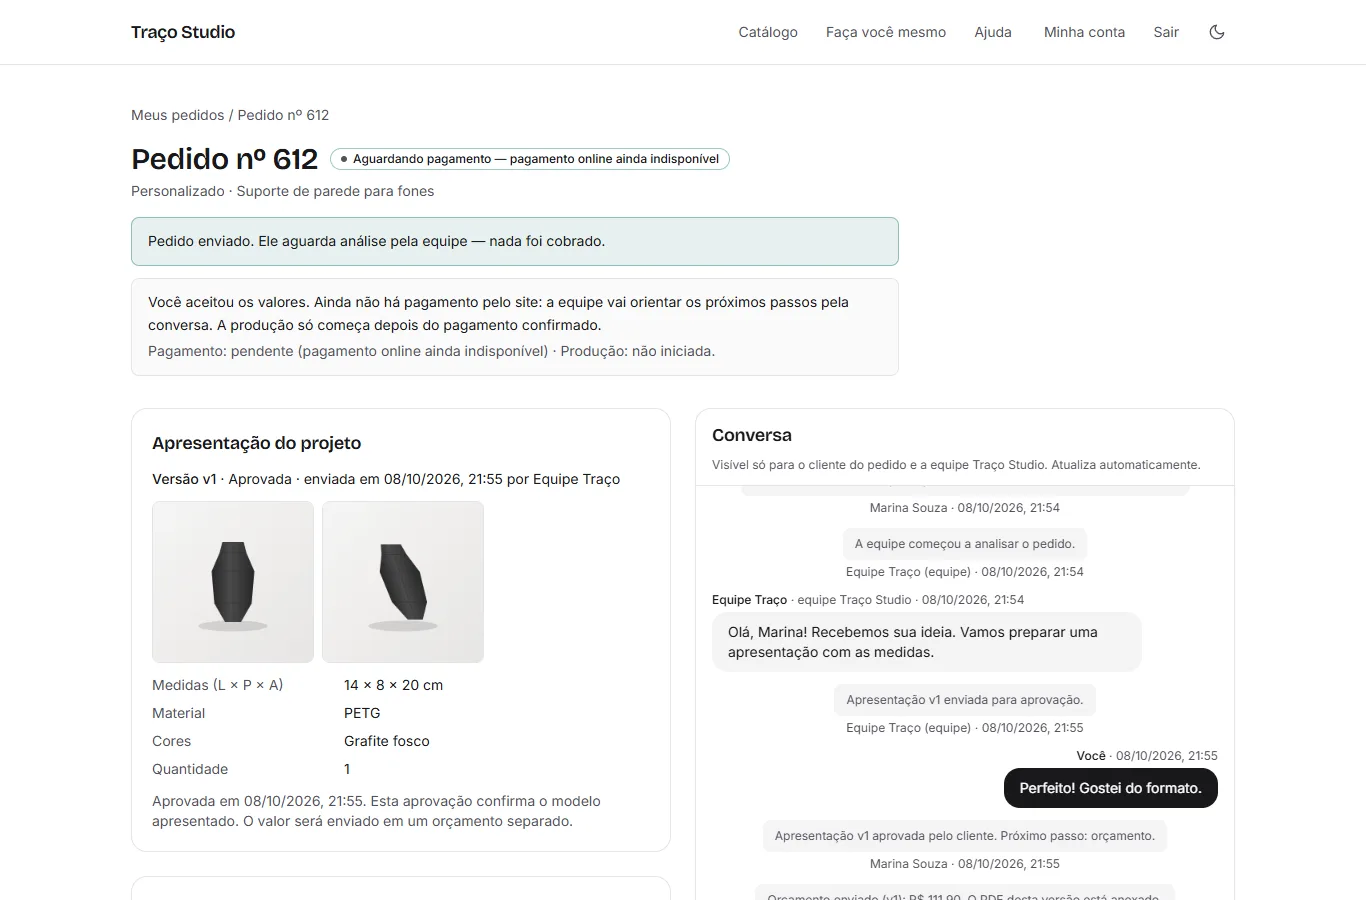
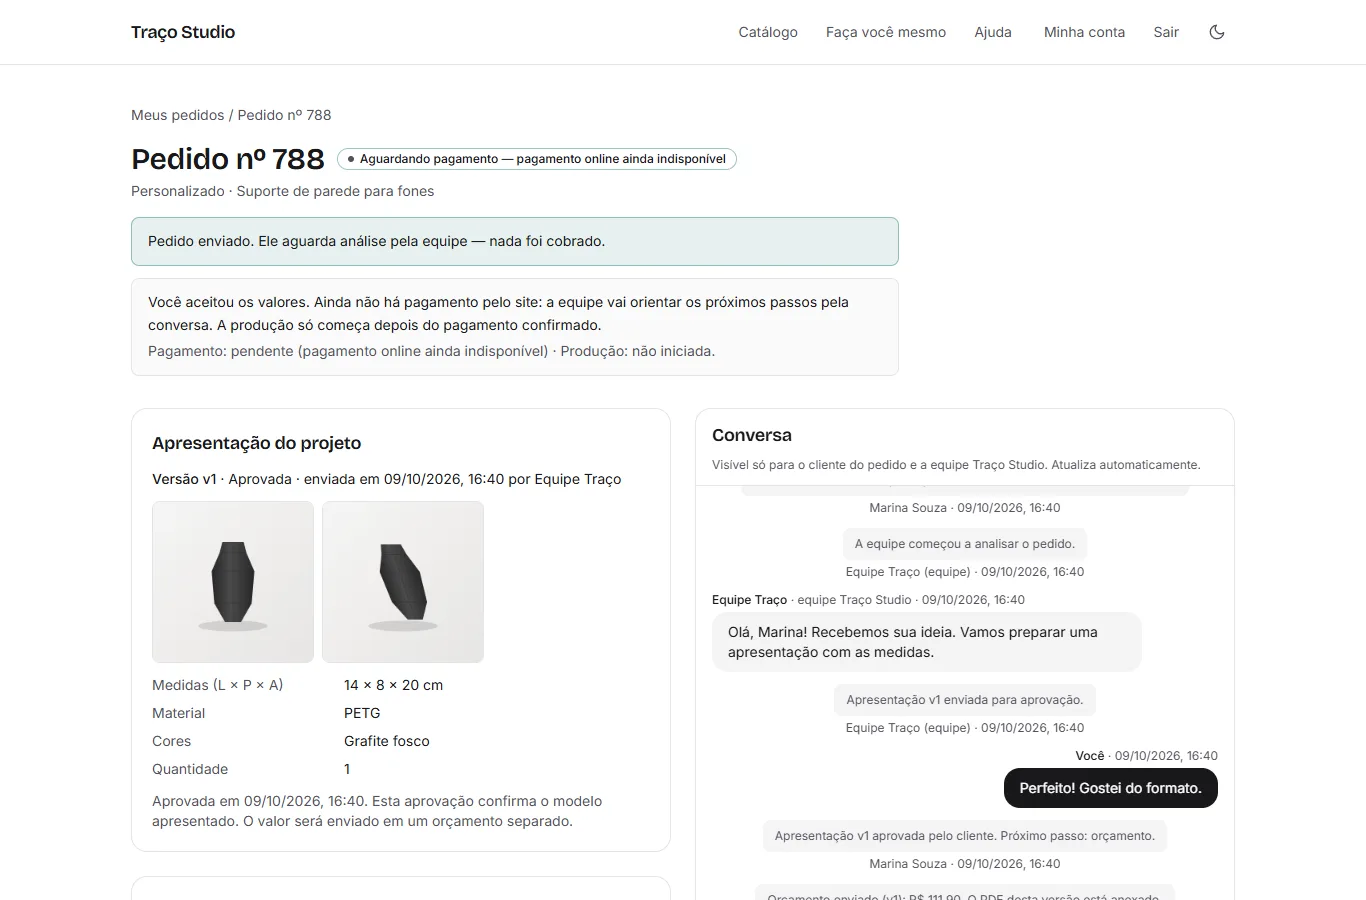
docs: proposta comercial, faixa de preço do parceiro e cupons configuráveis
- Parceiros convidados com proposta comercial versionada (PDF), preço-base calculado e faixa de preço
  escolhida pelo parceiro; publicação depende das condições aceitas e da autorização do proprietário.
- Cupons configuráveis (percentual, uso único ou boas-vindas, escopo, validade).
- Capturas refeitas com dados fictícios; removidas duas imagens desatualizadas da área de parceiros.
- Gateway, saques, repasses e publicação em produção seguem pendentes.

diff --git a/README.md b/README.md
@@ -4,8 +4,8 @@
 
 Traço Studio (nome em desenvolvimento) é a loja online de dois sócios que fabricam e vendem peças impressas em 3D.
 O site reúne em um só lugar o **catálogo de produtos prontos**, os **pedidos personalizados** — da ideia do cliente
-até a aprovação do projeto e o aceite do orçamento — e as **propostas de produtos enviadas por parceiros**, com
-conversa privada entre cada pessoa e a equipe.
+até a aprovação do projeto e o aceite do orçamento — e as **propostas de produtos enviadas por parceiros
+convidados**, com proposta comercial, faixa de preço e conversa privada entre cada pessoa e a equipe.
 
 ![Catálogo com filtros por categoria](docs/images/catalogo.webp)
 
@@ -64,11 +64,15 @@ e a equipe recalcula custos à mão. O objetivo do projeto é organizar esse pro
 |---|---|
 | ![Lista de pedidos da equipe com filtros](docs/images/inbox-equipe.webp) | <img src="docs/images/custos-reutilizaveis.webp" alt="Cadastro de impressora, materiais e parâmetros de custo versionados" width="520"> |
 
-### Parceiros que propõem produtos
+**Cupons configuráveis: percentual, modalidade (uso único ou boas-vindas), escopo e validade**
 
-| Área do parceiro: proposta enviada e simulação | Análise da proposta pela equipe |
+<img src="docs/images/cupons-configuraveis.webp" alt="Cadastro de cupom com percentual, modalidade, escopo e lista de cupons com uso" width="620">
+
+### Parceiros convidados e proposta comercial
+
+| Condições comerciais (equipe) — valores de exemplo | Calculadora do parceiro: escolha do preço na faixa |
 |---|---|
-| ![Proposta do parceiro com simulação e preço de fabricação aguardando orçamento](docs/images/parceiro-proposta.webp) | ![Painel da equipe com decisões sobre a proposta e conversa](docs/images/equipe-proposta.webp) |
+| <img src="docs/images/condicoes-comerciais.webp" alt="Política comercial com remuneração, teto do parceiro, promoção máxima e modalidades de pagamento de exemplo" width="520"> | <img src="docs/images/parceiro-calculadora.webp" alt="Proposta comercial do parceiro com preço digitado, acréscimo por unidade e botões de aceitar ou pedir revisão" width="420"> |
 
 **Divulgação: QR Code da loja, marcado como teste enquanto não há domínio público**
 
@@ -102,10 +106,15 @@ e a equipe recalcula custos à mão. O objetivo do projeto é organizar esse pro
 - Trocar o CEP de um pedido com orçamento em aberto faz a equipe recalcular o frete; depois do aceite, só por
   revisão comercial.
 
-**Cupons de 5%**
-- Códigos criados pela equipe, com validade opcional; o desconto é sempre de 5% sobre os itens, nunca sobre o frete.
-- O cliente confere o cupom antes de enviar o pedido ou o aplica no orçamento, o que gera uma nova versão.
-- Nenhum desconto é aplicado automaticamente por acessar um link ou QR Code.
+**Cupons configuráveis**
+- A equipe define o percentual (por exemplo 5% ou 10%), a modalidade — **uso único** (opcionalmente de uma conta) ou
+  **boas-vindas** (um uso por conta, antes da primeira compra paga) —, onde vale, a validade e a ativação.
+- Desconto só sobre os itens, nunca sobre o frete; um cupom por pedido. As condições de um cupom não mudam depois de
+  criado. Antes de ativar, a equipe vê em quais produtos o percentual não é suportado.
+- Conferir o código não consome o cupom: o consumo fica para a confirmação do pagamento (ainda inexistente), com
+  proteção contra uso simultâneo.
+- Se o cupom não vale para o produto, o cliente é avisado antes de confirmar. Nenhum desconto é aplicado
+  automaticamente por acessar um link ou QR Code.
 
 **Pedidos personalizados**
 - Descrição da ideia, finalidade, medidas, quantidade e preferências; fotos de referência e arquivo STL opcionais.
@@ -139,11 +148,23 @@ e a equipe recalcula custos à mão. O objetivo do projeto é organizar esse pro
   já confirmado, e não dá acesso administrativo.
 - Na área do parceiro: criar proposta (descrição, finalidade, medidas, materiais, cores, fotos de referência e STL
   privados, preço desejado), acompanhar a situação e o próximo passo e conversar com a equipe.
-- A equipe analisa, pede ajustes, envia apresentação e um orçamento de fabricação informativo, aprova tecnicamente ou
-  recusa com explicação. Mudança depois da aprovação exige nova versão.
-- A simulação do parceiro usa só os dados dele; o preço de fabricação aparece apenas quando a equipe envia um
-  orçamento. Não há saldo, carteira, comissão ou divisão de receita.
-- Uma proposta aprovada pode virar **rascunho de produto** (sem preço e sem fotos), com a publicação bloqueada.
+- A equipe analisa, pede ajustes, envia apresentação, aprova tecnicamente ou recusa com explicação. Mudança depois
+  da aprovação exige nova versão.
+
+**Proposta comercial e faixa de preço**
+- A equipe configura a política comercial (remuneração da loja, teto do acréscimo do parceiro, maior promoção
+  prevista, taxas de pagamento estimadas ou confirmadas) e pode simular cenários antes de salvar.
+- Para cada produto aprovado, a equipe confirma consumo, tempo e acabamento; o sistema calcula o **preço-base** que
+  cobre custos, despesas e a remuneração configurada, e a **faixa** que o parceiro pode escolher. A prévia na tela é
+  o mesmo documento do PDF.
+- A proposta é enviada em versões que não mudam depois do envio, registrada na conversa e por email com o PDF. O
+  parceiro escolhe o preço num campo numérico (com controle deslizante opcional), vê quanto recebe por unidade e aceita
+  ou pede revisão. Preço fora da faixa é recusado pelo servidor.
+- Cupons aceitos num produto de parceiro saem da parcela da loja: o acréscimo escolhido pelo parceiro é preservado.
+- O pedido guarda a divisão por item; os valores do parceiro são apurados nas vendas pagas — **sem saque nem repasse**
+  por enquanto.
+- A proposta aprovada vira rascunho de produto; a **publicação** exige as condições aceitas aplicadas ao produto e a
+  autorização de comercialização do proprietário (contrato e fiscal ficam fora do sistema).
 
 **Divulgação por QR Code**
 - QR Code geral da loja para adesivos, apontando para uma entrada estável que permite mudar o destino sem reimprimir.
@@ -192,17 +213,17 @@ versões, idempotência). Operações críticas usam transações e travas no ba
 | Funcionalidades acima | Implementadas e funcionando em ambiente local |
 | Testes automatizados | Unidade, integração (banco de testes isolado) e ponta a ponta no navegador, executados com sucesso na última rodada |
 | Validação manual pelos sócios | Em andamento |
-| Venda de produtos de parceiros | **Pendente** — a publicação depende de definição comercial (remuneração, autorização de venda, contrato) |
+| Venda de produtos de parceiros | **Pendente** — ferramentas prontas; falta a decisão comercial dos sócios (valores da política, contrato, fiscal) e a autorização de comercialização |
 | Pagamento online | **Não implementado** — sem gateway, sem cobrança |
-| Saque e repasses | **Não implementados** |
-| Hospedagem e domínio | **Não publicados** — arquitetura e procedimento de implantação preparados, aguardando decisão |
+| Saque e repasses ao parceiro | **Não implementados** (os valores só são apurados) |
+| Publicação em produção (hospedagem e domínio) | **Pendente** — arquitetura e procedimento de implantação preparados, aguardando decisão |
 | Email transacional real | **Não configurado** — hoje os emails são capturados localmente |
 | QR Code de divulgação | **Apenas de teste** (gerado localmente, sem domínio público) |
 
 ## Próximas etapas
 
 1. Concluir a validação manual e ajustar o que aparecer.
-2. Definir as condições comerciais para produtos de parceiros.
+2. Preencher a política comercial e decidir contrato, fiscal e repasse para produtos de parceiros.
 3. Hospedagem, domínio e email transacional real, com verificação em ambiente publicado; QR Code definitivo.
 4. Integração com gateway de pagamento, com confirmação verificável pelo servidor.
 5. Depois: carrinho e estoque, produção e prazos, envio e rastreio, avaliações.
